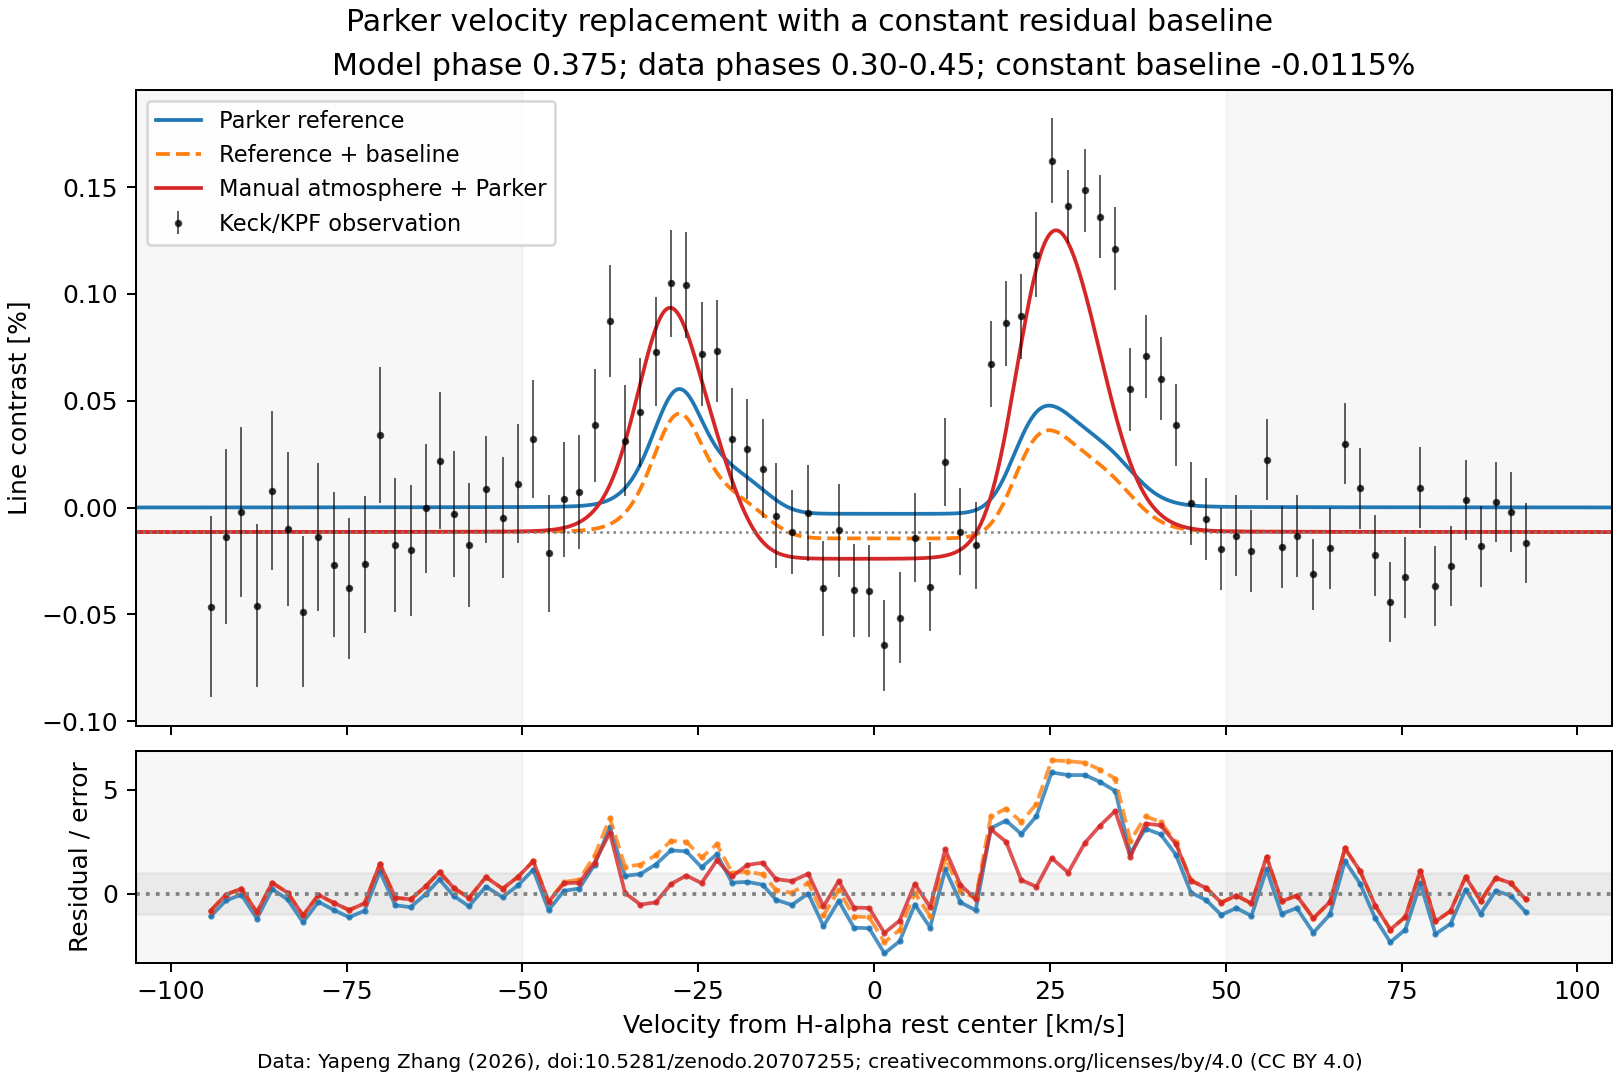
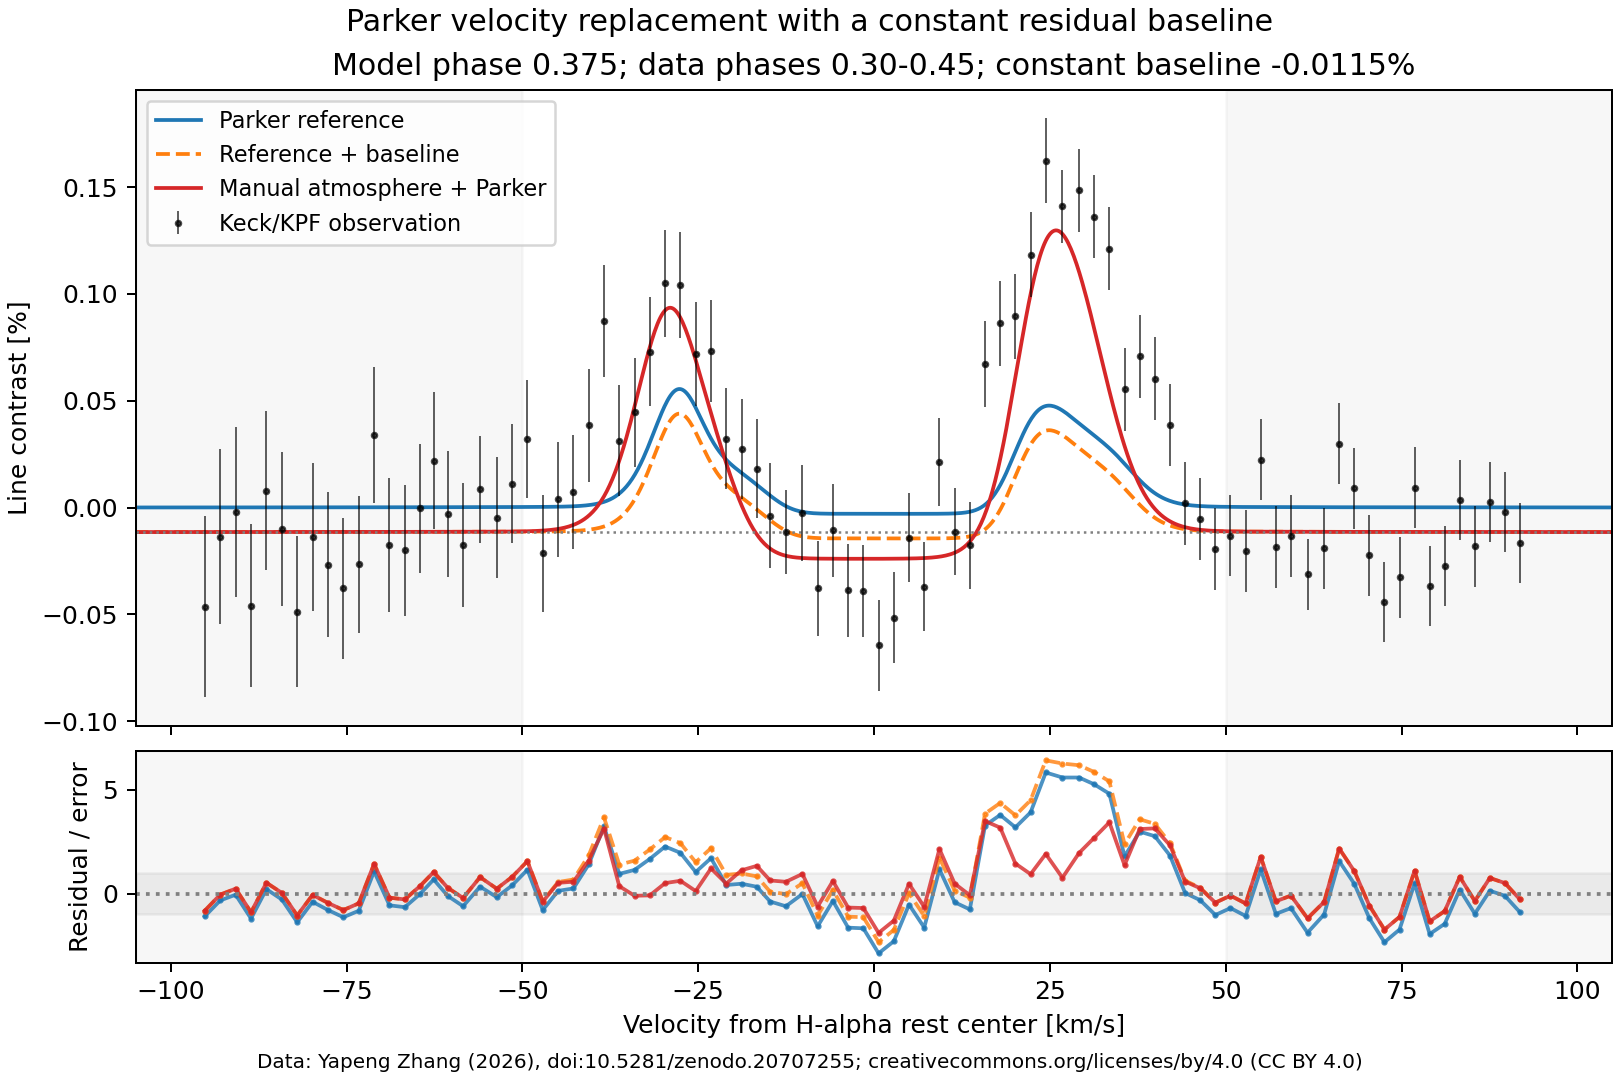
Use NIST hydrogen lines and retain Rydberg comparison

diff --git a/hydrogen_forward.py b/hydrogen_forward.py
@@ -17,7 +17,9 @@ import jax
 import jax.numpy as jnp
 import numpy as np
 
-from exojax.database import AdbHydrogen
+from exojax.database import AdbNist
+from exojax.database.core.broadening import gamma_natural
+from exojax.database.core_atom.line_strength import line_strength_atom
 from exojax.opacity import OpaDirect
 from exojax.opacity.lpf.line_coefficients import line_coefficients
 from exojax.postproc.response import ipgauss_ola
@@ -35,6 +37,23 @@ STELLAR_TEMPERATURE_K = 10000.0
 RESOLVING_POWER = 98000.0
 REFERENCE_COLUMN_CM2 = 3.0e14
 SYNCHRONOUS_ROTATION_KMS = 2 * np.pi * PLANET_RADIUS_CM / (1.48 * 86400) / 1e5
+
+
+def _use_rydberg_center(adb):
+    """Apply a local H-alpha comparison, keeping the NIST oscillator strength.
+
+    This experiment belongs to the analysis, not the NIST database API. Run it
+    only on the newly loaded single-line database before constructing OpaDirect.
+    The energy gap, Einstein A and LTE strength follow the chosen center.
+    """
+    nu = np.full_like(adb.nu_lines, 109677.5834 * (1 / 2**2 - 1 / 3**2))
+    adb._A = adb._A * (nu / adb.nu_lines)**2
+    adb.nu_lines = nu
+    adb._eupper = adb._elower + nu
+    adb.Sij0 = line_strength_atom(
+        adb._A, adb._gupper, nu, adb._elower, adb.QTref_284, adb._QTmask,
+    )
+    adb.generate_jnp_arrays()
 
 
 def disk_quadrature(phase: float, nlon: int, nlat: int) -> tuple:
@@ -67,14 +86,17 @@ class HydrogenForwardModel:
     Enable JAX float64 before construction. Do not mutate a constructed model;
     create another instance to change the grids or orbital phase. Wavenumbers
     are in cm^-1; velocity_kms is positive for recession relative to the
-    AdbHydrogen H-alpha rest center, without an orbital/systemic velocity.
+    selected H-alpha rest center, without an orbital/systemic velocity.
     temperature_top_k sets the asymptotic kinetic temperature for the instance.
+    wavelength_model="nist" uses the NIST level-energy difference (default).
+    "rydberg" is a local line-center experiment at fixed oscillator strength;
+    it does not recreate every coefficient of the removed AdbHydrogen class.
     """
 
     def __init__(
         self, *, nlayer: int = 64, nlon: int = 24, nlat: int = 12,
         nnu: int = 1201, phase: float = 0.375, temperature_top_k: float = 9000.0,
-        planet_mass_mj: float = PLANET_MASS_MJ,
+        planet_mass_mj: float = PLANET_MASS_MJ, wavelength_model: str = "nist",
     ):
         if min(nlayer, nlon, nlat) < 1 or nnu < 3:
             raise ValueError("Use positive layer/disk counts and at least 3 spectral points.")
@@ -87,13 +109,27 @@ class HydrogenForwardModel:
         if not jax.config.x64_enabled:
             raise ValueError("Enable jax_enable_x64 before constructing the model.")
 
-        self.adb = AdbHydrogen(n_upper_max=3, wavelength_model="reference")
+        if wavelength_model not in ("nist", "rydberg"):
+            raise ValueError("wavelength_model must be 'nist' or 'rydberg'.")
+        self.wavelength_model = wavelength_model
+        self.adb = AdbNist("H_I", nurange=(15200.0, 15260.0))
+        if len(self.adb.nu_lines) != 1 or not np.allclose(
+            [self.adb.glower[0], self.adb.gupper[0]], [8.0, 18.0]
+        ):
+            raise ValueError("Expected one unresolved NIST H-alpha transition (g=8,18).")
+        if wavelength_model == "rydberg":
+            _use_rydberg_center(self.adb)
         self.line_center_cm = float(self.adb.nu_lines[0])
         self.wavenumber_cm = self.line_center_cm * np.exp(
             np.linspace(-120 / c, 120 / c, nnu)
         )
         self.velocity_kms = c * (self.line_center_cm / self.wavenumber_cm - 1)
-        self.opa = OpaDirect(self.adb, self.wavenumber_cm)
+        # Illustrative isolated-transition width, not a complete lifetime or
+        # Stark-broadening model. NIST does not supply the total damping here.
+        gamma = gamma_natural(self.adb.A)
+        self.opa = OpaDirect(
+            self.adb, self.wavenumber_cm, atomic_broadening=lambda T, P: gamma
+        )
 
         edges = np.linspace(1.0, 3.0, nlayer + 1)
         # The existing RT solver expects layers ordered from top to bottom.
@@ -173,7 +209,9 @@ class HydrogenForwardModel:
             velocity = -mu * radial_velocity - tangent_los * (
                 rotation_kms * cos_lat / self.radius_rp + zonal_kms * sin_lon
             )
-            profiles = jax.vmap(self.opa.line_profiles)(self.temperature_k, velocity)[:, 0, :]
+            profiles = jax.vmap(
+                lambda T, v: self.opa.line_profiles(T, velocity=v)
+            )(self.temperature_k, velocity)[:, 0, :]
             dtau = alpha_weight * profiles * self.thickness_cm[:, None] * column_scale
             intensity = rtrun_emis_pureabs_ibased_intensity_surface(
                 dtau, jnp.broadcast_to(source, profiles.shape), self.boundary_intensity,

diff --git a/tests/test_hydrogen_forward.py b/tests/test_hydrogen_forward.py
@@ -5,11 +5,31 @@ from __future__ import annotations
 import jax
 import jax.numpy as jnp
 import numpy as np
+import pandas as pd
 import pytest
 
+from exojax.database.nist import api as nist_api
 from hydrogen_forward import HydrogenForwardModel, disk_quadrature
 
 jax.config.update("jax_enable_x64", True)
+
+
+@pytest.fixture(scope="module", autouse=True)
+def offline_nist():
+    """NIST unresolved H-alpha row, fetched 2026-11-16; no network in tests.
+
+    Source: https://physics.nist.gov/PhysRefData/ASD/lines_form.html
+    H I, n=2 to n=3; energies in cm^-1 and A in s^-1.
+    """
+    frame = pd.DataFrame({
+        "wav": [15233.146], "A": [44101000.0],
+        "El": [82259.158], "Eu": [97492.304],
+        "gl": [8.0], "gu": [18.0], "jl": [3.5], "ju": [8.5],
+        "species": ["H_I"],
+    })
+    with pytest.MonkeyPatch.context() as patch:
+        patch.setattr(nist_api, "fetch_nist_lines", lambda *args, **kwargs: (frame.copy(), []))
+        yield
 
 
 @pytest.fixture(scope="module")
@@ -82,3 +102,20 @@ def test_parameter_gradients_match_finite_differences():
     assert np.isfinite(automatic).all()
     assert np.all(np.abs(automatic) > 1e-10)
     np.testing.assert_allclose(automatic, finite, rtol=2e-3, atol=1e-10)
+
+
+def test_rydberg_comparison_preserves_oscillator_strength_and_moves_peak():
+    nist = HydrogenForwardModel(nlayer=4, nlon=2, nlat=2, nnu=2401)
+    rydberg = HydrogenForwardModel(
+        nlayer=4, nlon=2, nlat=2, nnu=2401, wavelength_model="rydberg"
+    )
+    np.testing.assert_allclose(1e8 / nist.line_center_cm, 6564.63215149, atol=1e-7, rtol=0)
+    np.testing.assert_allclose(1e8 / rydberg.line_center_cm, 6564.69606350, atol=1e-7, rtol=0)
+    np.testing.assert_allclose(
+        nist.adb.A / nist.adb.nu_lines**2, rydberg.adb.A / rydberg.adb.nu_lines**2
+    )
+    for model in (nist, rydberg):
+        np.testing.assert_allclose(model.adb.eupper - model.adb.elower, model.adb.nu_lines)
+        profile = np.asarray(model.opa.line_profiles(8000.0))[0]
+        peak = model.wavenumber_cm[np.argmax(profile)]
+        np.testing.assert_allclose(peak, model.line_center_cm, atol=1e-8, rtol=0)

diff --git a/generate_spectra.py b/generate_spectra.py
@@ -100,9 +100,10 @@ def main():
     parser.add_argument("--phase", type=float, default=0.375)
     parser.add_argument("--nlayer", type=int, default=64)
     parser.add_argument("--check-convergence", action="store_true")
+    parser.add_argument("--wavelength-model", choices=("nist", "rydberg"), default="nist")
     args = parser.parse_args()
     jax.config.update("jax_enable_x64", True)
-    model = HydrogenForwardModel(nlayer=args.nlayer, phase=args.phase)
+    model = HydrogenForwardModel(nlayer=args.nlayer, phase=args.phase, wavelength_model=args.wavelength_model)
     spectra = {name: np.asarray(model.spectrum(**parameters)) for name, parameters in CASES.items()}
     if not all(np.isfinite(spectrum).all() for spectrum in spectra.values()):
         raise RuntimeError("The generated spectra contain non-finite values.")
@@ -112,6 +113,7 @@ def main():
         writer.writerow(["velocity_kms", *spectra])
         writer.writerows(zip(model.velocity_kms, *spectra.values()))
     report = {
+        "wavelength_model": args.wavelength_model,
         "phase": args.phase, "nlayer": args.nlayer, "nlon": 24, "nlat": 12,
         "nnu": len(model.wavenumber_cm), "n2_column_cm-2": 3e14,
         "departure_floor": 0.08, "rest_wavelength_angstrom": 1e8 / model.line_center_cm,
@@ -126,8 +128,8 @@ def main():
     }
     if args.check_convergence:
         reference = spectra["Reduced upper population + Parker wind"]
-        finer_layers = HydrogenForwardModel(nlayer=2 * args.nlayer, phase=args.phase)
-        finer_disk = HydrogenForwardModel(nlayer=args.nlayer, nlon=48, nlat=24, phase=args.phase)
+        finer_layers = HydrogenForwardModel(nlayer=2 * args.nlayer, phase=args.phase, wavelength_model=args.wavelength_model)
+        finer_disk = HydrogenForwardModel(nlayer=args.nlayer, nlon=48, nlat=24, phase=args.phase, wavelength_model=args.wavelength_model)
         report["max_absolute_contrast_change"] = {
             "double_layers": float(np.max(np.abs(np.asarray(finer_layers.spectrum()) - reference))),
             "double_disk_resolution": float(np.max(np.abs(np.asarray(finer_disk.spectrum()) - reference))),

diff --git a/compare_manual.py b/compare_manual.py
@@ -41,10 +41,11 @@ MANUAL_PARAMETERS = {
 def main():
     parser = argparse.ArgumentParser(description=__doc__)
     parser.add_argument("--output", type=Path, default=Path("results/manual"))
+    parser.add_argument("--wavelength-model", choices=("nist", "rydberg"), default="nist")
     args = parser.parse_args()
     jax.config.update("jax_enable_x64", True)
-    original_model = HydrogenForwardModel()
-    manual_model = HydrogenForwardModel(temperature_top_k=12000.0)
+    original_model = HydrogenForwardModel(wavelength_model=args.wavelength_model)
+    manual_model = HydrogenForwardModel(temperature_top_k=12000.0, wavelength_model=args.wavelength_model)
     velocity, observed, error = load_observations(original_model.line_center_cm)
     baseline_checks = {}
     for cutoff in (45, 50, 55, 60, 65):
@@ -65,6 +66,7 @@ def main():
         )) / error for name, spectrum in spectra.items()
     }
     report = {
+        "wavelength_model": args.wavelength_model,
         "model_phase": 0.375, "observation_phase_range": [0.30, 0.45],
         "rest_wavelength_angstrom": 1e8 / original_model.line_center_cm,
         "velocity_model": "isothermal transonic Parker wind (no tides)",

diff --git a/README.md b/README.md
@@ -7,10 +7,8 @@ manual parameter choices are described in the pull request.
 ## Setup
 
 Use Python 3.10+ and an ExoJAX checkout containing
-[PR #833](https://github.com/HajimeKawahara/exojax/pull/833) and the rest-wavelength
-fix in [PR #835](https://github.com/HajimeKawahara/exojax/pull/835). Tested with
-commit `a0b3fba805d7f7d7fb6ef9adc2370f225d13093b` plus the wavelength change from
-`226304dbf5958327f3d5cf3724ac2ab1d04e0559`.
+[PR #836](https://github.com/HajimeKawahara/exojax/pull/836), tested at commit
+`e676c6c7f4a88d07cc8dde1cc0329acac991975d`.
 With that checkout at `../exojax`, run from this repository:
 
 ```bash
@@ -29,6 +27,8 @@ JAX_PLATFORMS=cpu python -m pytest -q
 The example saves `model.png`, `spectra.csv`, and `parameters.json` under
 `results/demo/`. Use `--output`, `--phase`, or `--nlayer` to change the run.
 No external atmospheric tables or observational downloads are required.
+The first model construction downloads NIST H I lines through RADIS and caches
+locally; subsequent runs reuse that cache. Tests use a small offline NIST row.
 The bundled Zenodo observation is licensed under CC BY 4.0; see
 [data attribution and column interpretation](data/zenodo_20707255/NOTICE.txt).
 `compare_manual.py` compares two prescribed atmospheres using Parker velocities
@@ -57,3 +57,12 @@ docstrings for parameter bounds, units, and geometric assumptions.
 from the prescribed line-forming temperature set by `temperature_top_k`.
 Set the assumed planet mass with `HydrogenForwardModel(planet_mass_mj=...)`.
 The comparison figures and equations are explained in the pull request.
+
+The default `wavelength_model="nist"` uses the NIST H I level-energy difference
+(approximately 6564.632 Angstrom in vacuum). For the former Rydberg line-center
+approximation, use `HydrogenForwardModel(wavelength_model="rydberg")` or
+`python generate_spectra.py --wavelength-model rydberg --output results/rydberg`.
+`compare_manual.py` accepts the same flag. This is a line-center experiment at
+fixed NIST oscillator strength, not a recreation of every old coefficient.
+The Lorentz width uses the isolated-transition approximation `A/(4*pi*c)`;
+it omits additional lifetime and collisional broadening.
